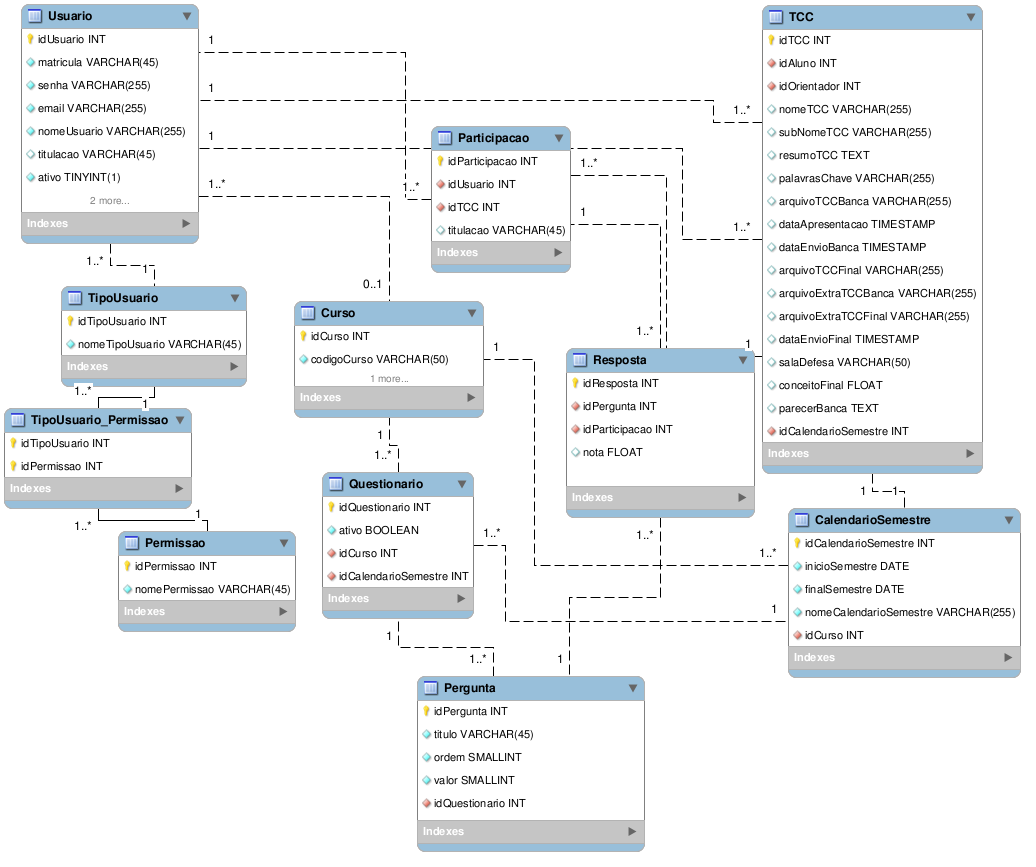
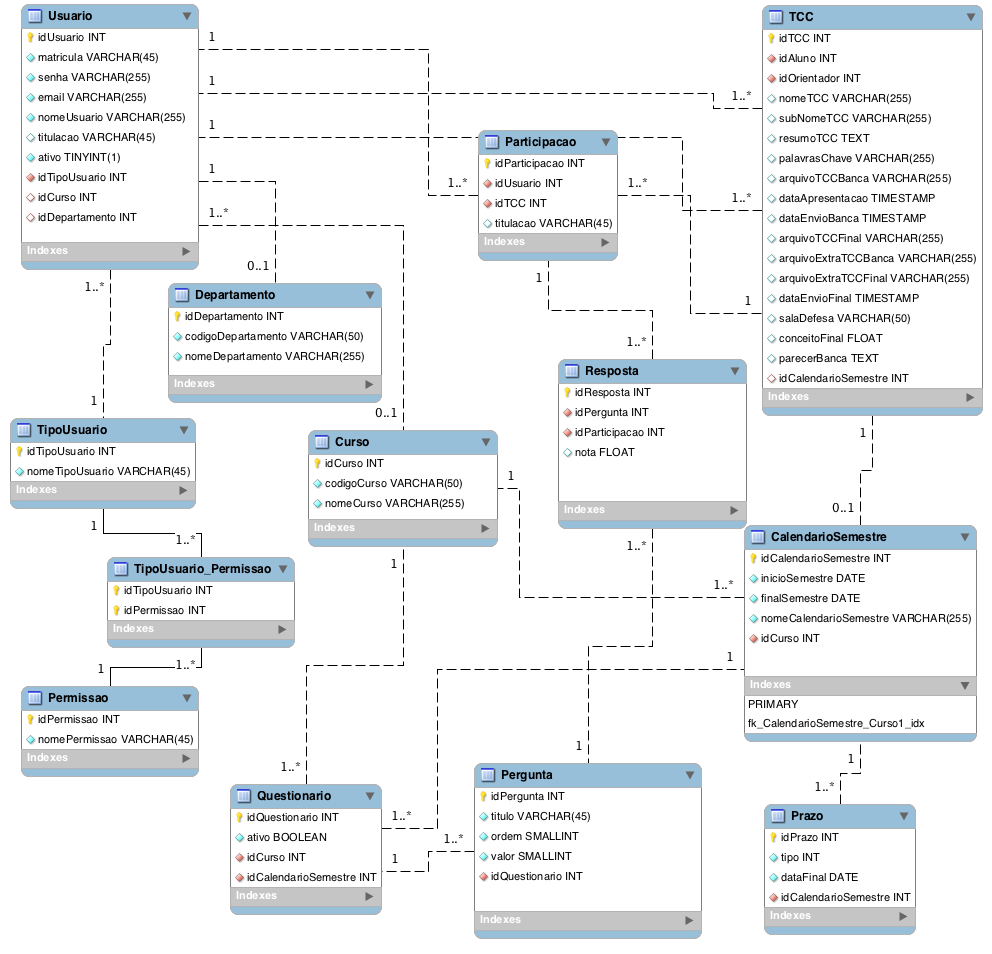
Criada tabela departamento

diff --git a/src/br/ufjf/tcc/model/Departamento.java b/src/br/ufjf/tcc/model/Departamento.java
@@ -1,0 +1,97 @@
+package br.ufjf.tcc.model;
+
+import java.io.Serializable;
+import java.util.ArrayList;
+import java.util.List;
+
+import javax.persistence.Column;
+import javax.persistence.Entity;
+import javax.persistence.FetchType;
+import javax.persistence.GeneratedValue;
+import javax.persistence.Id;
+import javax.persistence.OneToMany;
+import javax.persistence.Table;
+
+import org.hibernate.annotations.GenericGenerator;
+
+/**
+ * DTO da Tabela {@code Curso} contém os atributos e relacionamentos da mesma.
+ * 
+ */
+@Entity
+@Table(name = "Departamento")
+public class Departamento implements Serializable {
+
+	private static final long serialVersionUID = 1L;
+
+	/**
+	 * Campo com ID do Departamento. Relaciona com a coluna {@code idDepartamento} do banco e
+	 * é gerado por autoincrement do MySQL através das anotações
+	 * {@code @GeneratedValue(generator = "increment")} e
+	 * {@code @GenericGenerator(name = "increment", strategy = "increment")}
+	 * 
+	 */
+	@Id
+	@Column(name = "idDepartamento", unique = true, nullable = false)
+	@GeneratedValue(generator = "increment")
+	@GenericGenerator(name = "increment", strategy = "increment")
+	private int idDepartamento;
+
+	/**
+	 * Campo com o nome do curso. Relaciona com a coluna {@code codigoDepartamento} do
+	 * banco através da anotação
+	 * {@code @Column(name = "codigoDepartamento", length = 80, nullable = false)}.
+	 */
+	@Column(name = "codigoDepartamento", length = 50, nullable = false)
+	private String codigoDepartamento;
+	
+	/**
+	 * Campo com o nome do curso. Relaciona com a coluna {@code nomeDepartamento} do
+	 * banco através da anotação
+	 * {@code @Column(name = "nomeDepartamento", length = 80, nullable = false)}.
+	 */
+	@Column(name = "nomeDepartamento", length = 80, nullable = false)
+	private String nomeDepartamento;
+
+	/**
+	 * Relacionamento 1 para N entre Departamento e Usuários. Mapeada em
+	 * {@link Usuario} pela variável {@code departamento} e retorno do tipo
+	 * {@code LAZY} que indica que não será carregado automáticamente este dado
+	 * quando retornarmos o {@link Departamento}.
+	 * 
+	 */
+	@OneToMany(fetch = FetchType.LAZY, mappedBy = "departamento")
+	private List<Usuario> usuarios = new ArrayList<Usuario>();
+
+	public int getIdDepartamento() {
+		return idDepartamento;
+	}
+
+	public void setIdDepartamento(int idDepartamento) {
+		this.idDepartamento = idDepartamento;
+	}
+
+	public String getCodigoDepartamento() {
+		return codigoDepartamento;
+	}
+
+	public void setCodigoDepartamento(String codigoDepartamento) {
+		this.codigoDepartamento = codigoDepartamento;
+	}
+
+	public String getNomeDepartamento() {
+		return nomeDepartamento;
+	}
+
+	public void setNomeDepartamento(String nomeDepartamento) {
+		this.nomeDepartamento = nomeDepartamento;
+	}
+
+	public List<Usuario> getUsuarios() {
+		return usuarios;
+	}
+
+	public void setUsuarios(List<Usuario> usuarios) {
+		this.usuarios = usuarios;
+	}
+}

diff --git a/src/br/ufjf/tcc/model/Usuario.java b/src/br/ufjf/tcc/model/Usuario.java
@@ -111,6 +111,17 @@ public class Usuario implements Serializable {
 	@ManyToOne(fetch = FetchType.LAZY)
 	@JoinColumn(name = "idCurso", nullable = true)
 	private Curso curso;
+	
+	/**
+	 * Relacionamento N para 1 entre Usuario e Departamento. Mapeando {@link Departamento} na
+	 * variável {@code Departamento} e retorno do tipo {@code LAZY} que indica que não
+	 * será carregado automáticamente este dado quando retornarmos o
+	 * {@link Usuario}.
+	 * 
+	 */
+	@ManyToOne(fetch = FetchType.LAZY)
+	@JoinColumn(name = "idDepartamento", nullable = true)
+	private Departamento departamento;
 
 	/**
 	 * Relacionamento 1 para N entre Usuario e TCC. Mapeada em {@link TCC} pela

diff --git a/src/br/ufjf/tcc/model/Curso.java b/src/br/ufjf/tcc/model/Curso.java
@@ -39,7 +39,7 @@ public class Curso implements Serializable {
 	private int idCurso;
 
 	/**
-	 * Campo com o nome do curso. Relaciona com a coluna {@code nomeCurso} do
+	 * Campo com o nome do curso. Relaciona com a coluna {@code codigoCurso} do
 	 * banco através da anotação
 	 * {@code @Column(name = "codigoCurso", length = 80, nullable = false)}.
 	 */
